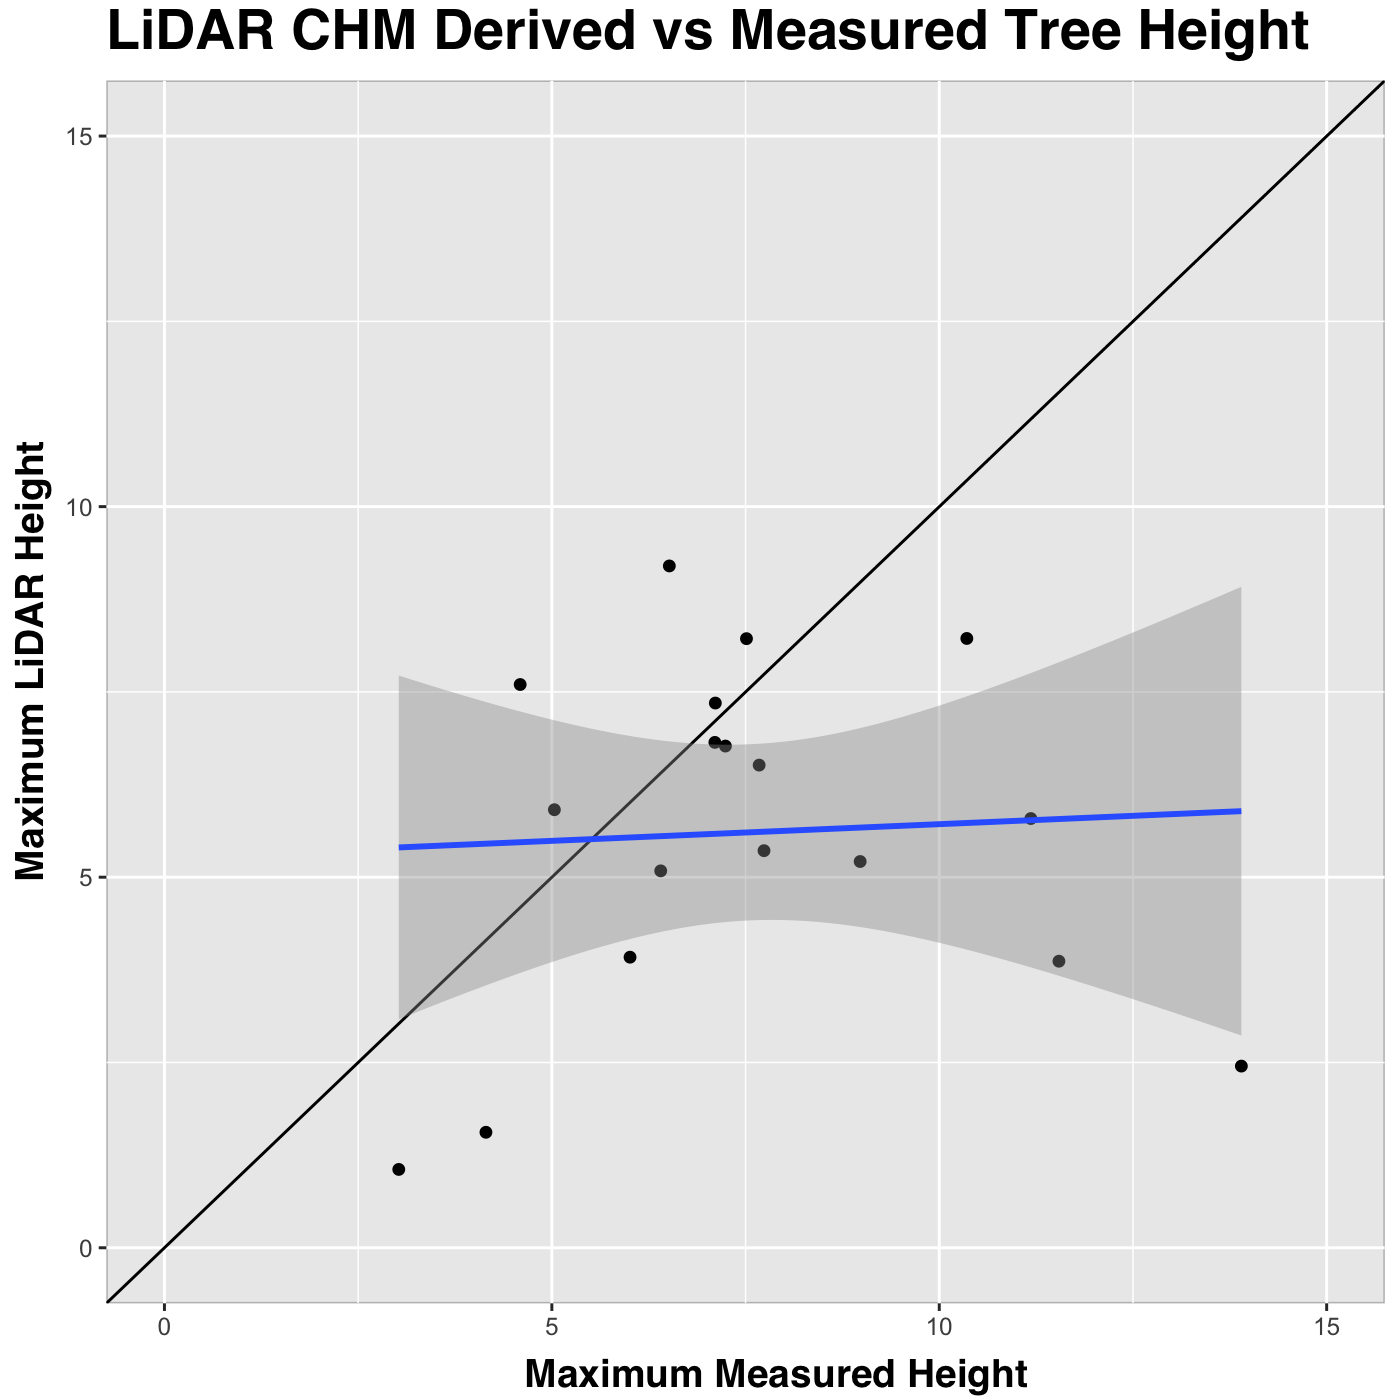
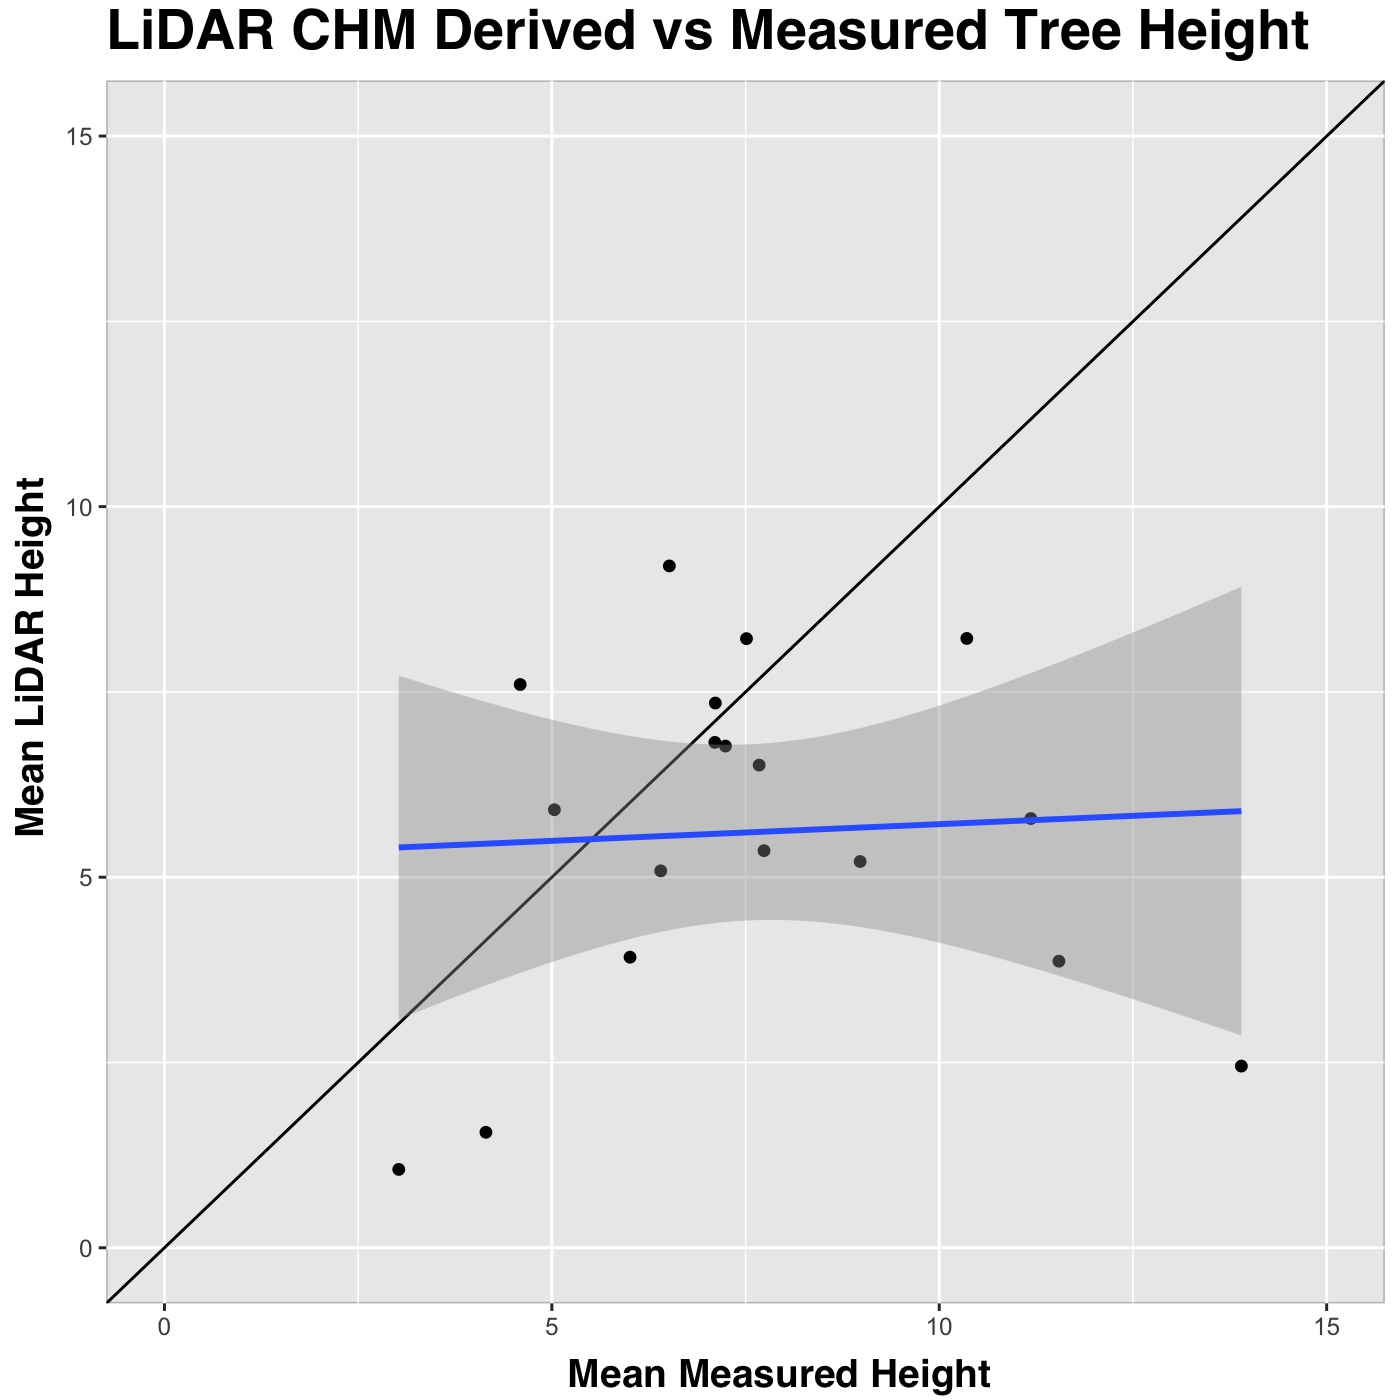
fixing hidden code on elssons

Changed region(s): [[0.3686, 0.9521, 0.7371, 1.0], [0.0, 0.3071, 0.0307, 0.645]]

diff --git a/_posts/courses/earth-analytics/05-remote-sensing-uncertainty-lidar/in-class/2017-02-15-spatial03-import-summarize-tree-height-data.md b/_posts/courses/earth-analytics/05-remote-sensing-uncertainty-lidar/in-class/2017-02-15-spatial03-import-summarize-tree-height-data.md
@@ -3,7 +3,7 @@ layout: single
 title: "Import and summarize tree height data and compare it to lidar derived height in R"
 excerpt: ". "
 authors: ['Leah Wasser']
-modified: '2017-09-29'
+modified: '2017-10-02'
 category: [courses]
 class-lesson: ['remote-sensing-uncertainty-r']
 permalink: /courses/earth-analytics/remote-sensing-uncertainty/import-summarize-tree-height-data/
@@ -31,13 +31,12 @@ redirect_from:
 
 After completing this tutorial, you will be able to:
 
-* Use pipes to summarize tree height data by plot stored in `.csv` format
-* Merge a regular `data.frame` to a spatial `data.frame` object
-* Create scatterplots using `ggplot()` that compare 2 variables using a 1:1 line
+* Extract mean and max summary metrics from tabular data using pipes & `mutate()`
+* Send data from a pipe directly to `ggplot()`
 
 ## <i class="fa fa-check-square-o fa-2" aria-hidden="true"></i> What You Need
 
-You will need a computer with internet access to complete this lesson and the data for week 4 of the course.
+You will need a computer with internet access to complete this lesson and the data for week 5 of the course.
 
 [<i class="fa fa-download" aria-hidden="true"></i> Download Week 4 Data (~500 MB)](https://ndownloader.figshare.com/files/7525363){:data-proofer-ignore='' .btn }
 
@@ -45,6 +44,20 @@ You will need a computer with internet access to complete this lesson and the da
 
 
 
+
+```r
+# load libraries
+library(raster)
+library(rgdal)
+library(rgeos)
+library(ggplot2)
+library(dplyr)
+
+options(stringsAsFactors = FALSE)
+
+# set working directory
+# setwd("path-here/earth-analytics")
+```
 
 In the last lesson we extracted canopy height data at each field site location
 from a NEON Canopy Height Model. In this lesson, we will summarize our field
@@ -62,7 +75,11 @@ height data is stored in `.csv` format. How many unique plots are in the data?
 
 
 
-```
+```r
+# import the centroid data and the vegetation structure data
+SJER_insitu <- read.csv("data/week_04/california/SJER/2013/insitu/veg_structure/D17_2013_SJER_vegStr.csv")
+
+str(SJER_insitu)
 ## 'data.frame':	362 obs. of  30 variables:
 ##  $ siteid               : chr  "SJER" "SJER" "SJER" "SJER" ...
 ##  $ sitename             : chr  "San Joaquin" "San Joaquin" "San Joaquin" "San Joaquin" ...
@@ -94,14 +111,27 @@ height data is stored in `.csv` format. How many unique plots are in the data?
 ##  $ common_name          : logi  NA NA NA NA NA NA ...
 ##  $ aop_plot             : logi  NA NA NA NA NA NA ...
 ##  $ unique_id            : logi  NA NA NA NA NA NA ...
+unique(SJER_insitu$plotid)
 ##  [1] "SJER128"  "SJER2796" "SJER272"  "SJER112"  "SJER1068" "SJER916" 
 ##  [7] "SJER361"  "SJER3239" "SJER824"  "SJER8"    "SJER952"  "SJER116" 
 ## [13] "SJER117"  "SJER37"   "SJER4"    "SJER192"  "SJER36"   "SJER120"
+
+# get list of unique plots from the shapefile that we imported in the previous lesson
+unique(SJER_plots$Plot_ID)
 ##  [1] "SJER1068" "SJER112"  "SJER116"  "SJER117"  "SJER120"  "SJER128" 
 ##  [7] "SJER192"  "SJER272"  "SJER2796" "SJER3239" "SJER36"   "SJER361" 
 ## [13] "SJER37"   "SJER4"    "SJER8"    "SJER824"  "SJER916"  "SJER952"
+
+# do we have the same plot numbers in both data sets?
+shapefile_plot_id <- sort(unique(SJER_plots$Plot_ID))
+csv_plot_id <- sort(unique(SJER_insitu$plotid))
+# are they the same ?
+shapefile_plot_id == csv_plot_id
 ##  [1] TRUE TRUE TRUE TRUE TRUE TRUE TRUE TRUE TRUE TRUE TRUE TRUE TRUE TRUE
 ## [15] TRUE TRUE TRUE TRUE
+
+# or ask r if each value is the same or not
+all(shapefile_plot_id == csv_plot_id)
 ## [1] TRUE
 ```
 
@@ -121,7 +151,14 @@ Finally, you will compare the mean measured tree height per plot to the mean
 tree height extracted from the lidar `CHM`.
 
 
-```
+```r
+# find the max and mean stem height for each plot
+insitu_stem_height <- SJER_insitu %>%
+  group_by(plotid) %>%
+  summarise(insitu_max = max(stemheight), insitu_mean = mean(stemheight))
+
+# view the data frame to make sure we're happy with the column names.
+head(insitu_stem_height)
 ## # A tibble: 6 x 3
 ##     plotid insitu_max insitu_mean
 ##      <chr>      <dbl>       <dbl>
@@ -132,7 +169,6 @@ tree height extracted from the lidar `CHM`.
 ## 5  SJER120        8.8    7.600000
 ## 6  SJER128       18.2    5.211765
 ```
-
 
 Above you did a few things
 
@@ -155,7 +191,14 @@ spelled slightly differently in both `data.frames` so we'll need to tell `R`
 what it's called in each `data.frame`.
 
 
-```
+```r
+# merge the insitu data into the centroids data.frame
+SJER_height <- merge(SJER_height,
+                     insitu_stem_height,
+                   by.x = 'Plot_ID',
+                   by.y = 'plotid')
+
+SJER_height@data
 ##     Plot_ID  Point northing  easting plot_type lidar_mean_ht insitu_max
 ## 1  SJER1068 center  4111568 255852.4     trees     11.544348       19.3
 ## 2   SJER112 center  4111299 257407.0     trees     10.355685       23.9
@@ -207,19 +250,82 @@ Finally, create a scatterplot that illustrates the relationship between insitu
 measured max canopy height values and lidar derived max canopy height values.
 
 
+
+```r
+# create plot
+ggplot(SJER_height@data, aes(x = lidar_mean_ht, y = insitu_mean)) +
+  geom_point() +
+  theme_bw() +
+  labs(title = "Lidar Derived Mean Tree Height \nvs. InSitu Measured Mean Tree Height (m)",
+       subtitle = "San Joaquin Field Site",
+       x = "Mean measured height",
+       y = "Mean LiDAR pixel")
+```
+
 <img src="{{ site.url }}/images/rfigs/courses/earth-analytics/05-remote-sensing-uncertainty-lidar/in-class/2017-02-15-spatial03-import-summarize-tree-height-data/plot-w-ggplot-1.png" title="ggplot - measured vs lidar chm." alt="ggplot - measured vs lidar chm." width="90%" />
 
 Next, let's fix the plot adding a 1:1 line and making the x and y axis the same .
+
+
+```r
+# create plot
+ggplot(SJER_height@data, aes(x = lidar_mean_ht, y = insitu_mean)) +
+  geom_point() +
+  theme_bw() +
+  xlim(0, 15) + ylim(0, 15) + # set x and y limits to 0-20
+  geom_abline(intercept = 0, slope = 1) + # add one to one line
+    labs(title = "Lidar Derived Mean Tree Height \nvs. InSitu Measured Mean Tree Height (m)",
+       subtitle = "San Joaquin Field Site",
+       x = "Mean measured height",
+       y = "Mean LiDAR pixel")
+```
 
 <img src="{{ site.url }}/images/rfigs/courses/earth-analytics/05-remote-sensing-uncertainty-lidar/in-class/2017-02-15-spatial03-import-summarize-tree-height-data/plot-w-ggplot2-1.png" title="ggplot - measured vs lidar chm w one to one line." alt="ggplot - measured vs lidar chm w one to one line." width="90%" />
 
 We can also add a regression fit to our plot. Explore the `GGPLOT` options and
 customize your plot.
 
+
+```r
+# plot with regression fit
+p <- ggplot(SJER_height@data, aes(x = lidar_mean_ht, y = insitu_mean)) +
+  geom_point() +
+  labs( title = "LiDAR CHM Derived vs Measured Tree Height",
+        x = "Mean Measured Height",
+        y = "Mean LiDAR Height") +
+    xlim(0, 15) + ylim(0, 15) + # set x and y limits to 0-20
+  geom_abline(intercept = 0, slope = 1) +
+  geom_smooth(method = lm)
+
+p + theme(panel.background = element_rect(colour = "grey")) +
+  theme(plot.title = element_text(family = "sans", face = "bold", size = 20, vjust = 1.9)) +
+  theme(axis.title.y = element_text(family = "sans", face = "bold",
+                                    size = 14, angle = 90, hjust = 0.54,
+                                    vjust = 1)) +
+  theme(axis.title.x = element_text(family = "sans", face = "bold",
+                                    size = 14, angle = 00,
+                                    hjust = 0.54, vjust = -.2))
+```
+
 <img src="{{ site.url }}/images/rfigs/courses/earth-analytics/05-remote-sensing-uncertainty-lidar/in-class/2017-02-15-spatial03-import-summarize-tree-height-data/ggplot-data-1.png" title="Scatterplot measured height compared to lidar chm." alt="Scatterplot measured height compared to lidar chm." width="90%" />
 
 
 ## View Difference: Lidar vs Measured
+
+
+```r
+# Calculate difference
+SJER_height@data$ht_diff <-  (SJER_height@data$lidar_mean_ht - SJER_height@data$insitu_mean)
+
+
+# create bar plot using ggplot()
+ggplot(data = SJER_height@data,
+       aes(x = Plot_ID, y = ht_diff, fill = Plot_ID)) +
+       geom_bar(stat = "identity") +
+       labs( title = "Difference: \nLidar mean height - in situ mean height (m)",
+             x = "Plot Name",
+             y = "Height difference (m)")
+```
 
 <img src="{{ site.url }}/images/rfigs/courses/earth-analytics/05-remote-sensing-uncertainty-lidar/in-class/2017-02-15-spatial03-import-summarize-tree-height-data/view-diff-1.png" title="box plot showing differences between chm and measured heights." alt="box plot showing differences between chm and measured heights." width="90%" />
 
@@ -233,6 +339,21 @@ in the plotid column. gsub() takes 3 arguments
 2. What you want to replace that text with. To remove it use `""`
 3. The thing that you want to do the find and replace on. In this case that thing is the plotid column in our `data.frame`.
 
+
+
+```r
+# remove the SJER from each plot id using gsub
+SJER_height$Plot_ID <- gsub("SJER", "", SJER_height$Plot_ID)
+
+# create bar plot using ggplot()
+ggplot(data = SJER_height@data,
+       aes(x = Plot_ID, y = ht_diff, fill = Plot_ID)) +
+       geom_bar(stat = "identity") +
+       labs( title = "Difference: \nLidar mean height - in situ mean height (m)",
+             x = "Plot ID",
+             y = "Height difference (m)") +
+  guides(fill = FALSE) # remove legend
+```
 
 <img src="{{ site.url }}/images/rfigs/courses/earth-analytics/05-remote-sensing-uncertainty-lidar/in-class/2017-02-15-spatial03-import-summarize-tree-height-data/barplot-nolegend-1.png" title=" " alt=" " width="90%" />
 
